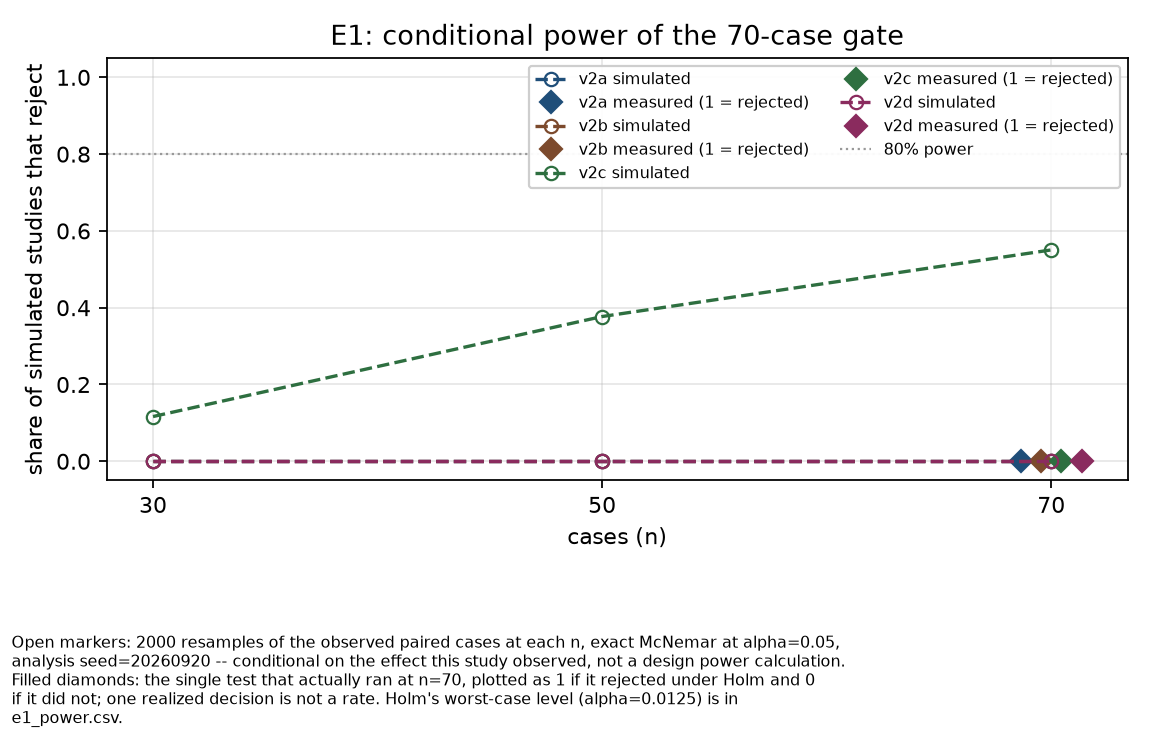
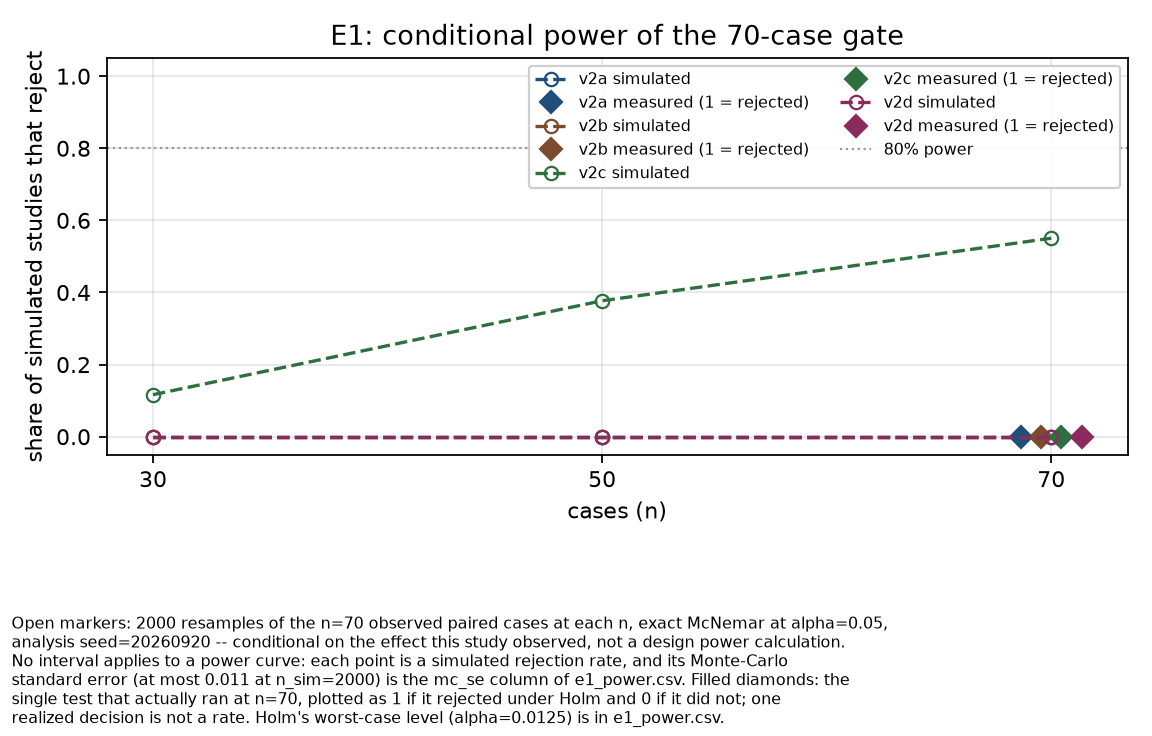
Report the Monte-Carlo error behind every simulated power point
e1_power.csv gains an mc_se column, sqrt(p(1-p)/n_sim), computed in
analyze.py rather than typed into the CSV. B stays at 2,000, so no
pre-registered quantity moves; what changes is that each simulated power
value now carries its own simulation error, at most 0.011 at this B.

The power figure's footnote states the paired-case n it resamples from and
says outright that no interval applies to a power curve, naming mc_se as
where the simulation error lives. experiments/README.md's honesty rule asks
every footnote for n, the interval method and the seed, and this figure had
n_sim, alpha and seed only.

Two numbers in experiments/README.md are also wrong and fixed here: the
$2/$10 Sonnet price belongs to D-010, not D-005 (D-005 is what shipped
$3/$15), and the account stratum's interval width is printed to three
places, because 0.19 reads as exactly the 19 points that the sentence below
the table says nine of ten strata exceed. It is 0.194.

Changed region(s): [[0.0, 0.8438, 0.75, 1.0], [0.125, 0.3125, 0.9688, 0.75], [0.0, 0.0938, 0.0938, 0.6562]]

diff --git a/experiments/analyze.py b/experiments/analyze.py
@@ -694,9 +694,23 @@ def table_e1_leak_sensitivity(pair_sets: dict[tuple[str, str], dict]) -> list[li
 
 
 E1_POWER_HEADER = [
-    "metric", "candidate_version", "n", "alpha", "alpha_basis", "power", "n_sim", "seed",
+    "metric", "candidate_version", "n", "alpha", "alpha_basis", "power", "mc_se", "n_sim", "seed",
     "n_observed_pairs", "observed_b", "observed_c", "mean_b", "mean_c", "method", "note",
 ]
+
+
+def monte_carlo_se(power: float, n_sim: int) -> float:
+    """Standard error of a simulated rejection rate: sqrt(p(1-p)/n_sim).
+
+    Every `power` value in `e1_power.csv` is a proportion of `n_sim` draws, so
+    it carries simulation error of its own. At n_sim = 2000 the worst case is
+    0.011, which is why the power numbers in the write-up are read to two
+    decimal places and not three. Raising n_sim would shrink this; it is not
+    an interval on the effect, only on the simulation.
+    """
+    if n_sim <= 0:
+        return 0.0
+    return math.sqrt(max(power * (1.0 - power), 0.0) / n_sim)
 
 
 def table_e1_power(pair_sets: dict[tuple[str, str], dict], seed: int, n_sim: int = E1_POWER_N_SIM) -> tuple[list[str], list[list]]:
@@ -723,6 +737,7 @@ def table_e1_power(pair_sets: dict[tuple[str, str], dict], seed: int, n_sim: int
         for res in results:
             rows.append([
                 metric, version, res["n"], res["alpha"], basis[res["alpha"]], res["power"],
+                monte_carlo_se(res["power"], res["n_sim"]),
                 res["n_sim"], res["seed"], res["n_observed_pairs"], res["observed_b"], res["observed_c"],
                 res["mean_b"], res["mean_c"], res["method"],
                 "simulated by resampling the observed pairs with replacement; "
@@ -851,12 +866,16 @@ def figure_e1_power(power_rows: list[list], main_rows: list[list], out_path: Pat
     ax.grid(alpha=0.3)
     ax.legend(fontsize=7, ncol=2, framealpha=0.95)
     n_sim = nominal[0][pcol["n_sim"]]
+    n_pairs = nominal[0][pcol["n_observed_pairs"]]
+    worst_se = monte_carlo_se(0.5, n_sim)
     footnote = _wrap(
-        f"Open markers: {n_sim} resamples of the observed paired cases at each n, exact McNemar at "
-        f"alpha=0.05, analysis seed={seed} -- conditional on the effect this study observed, not a "
-        f"design power calculation. Filled diamonds: the single test that actually ran at n=70, plotted "
-        f"as 1 if it rejected under Holm and 0 if it did not; one realized decision is not a rate. "
-        f"Holm's worst-case level (alpha=0.0125) is in e1_power.csv.",
+        f"Open markers: {n_sim} resamples of the n={n_pairs} observed paired cases at each n, exact "
+        f"McNemar at alpha=0.05, analysis seed={seed} -- conditional on the effect this study observed, "
+        f"not a design power calculation. No interval applies to a power curve: each point is a "
+        f"simulated rejection rate, and its Monte-Carlo standard error (at most {worst_se:.3f} at "
+        f"n_sim={n_sim}) is the mc_se column of e1_power.csv. Filled diamonds: the single test that "
+        f"actually ran at n=70, plotted as 1 if it rejected under Holm and 0 if it did not; one "
+        f"realized decision is not a rate. Holm's worst-case level (alpha=0.0125) is in e1_power.csv.",
         width=104,
     )
     fig.text(0.01, 0.01, footnote, fontsize=7, va="bottom")

diff --git a/experiments/README.md b/experiments/README.md
@@ -95,7 +95,7 @@ Environment variables:
 | Name | Where | Note |
 |------|-------|------|
 | `ANTHROPIC_API_KEY` | `.env` at the repo root (gitignored, mode 600) | loaded by `runner.py`; names are logged, values never |
-| `PRICE_CLAUDE_SONNET_5_INPUT=2.00` | export before a run on any checkout that predates D-005 | this branch was cut from a `main` whose `evalkit/cost.py` still had $3/$15; the runner aborts unless the effective price is $2/$10, whichever way it gets there |
+| `PRICE_CLAUDE_SONNET_5_INPUT=2.00` | export before a run on any checkout that predates D-010 | this branch was cut from a `main` whose `evalkit/cost.py` still had $3/$15; the runner aborts unless the effective price is $2/$10, whichever way it gets there |
 | `PRICE_CLAUDE_SONNET_5_OUTPUT=10.00` | same | same |
 | `LLM_CLASSIFIER_MODEL` / `LLM_JUDGE_MODEL` | optional | same contract as production `llm.py` |
 | `EXP_PYTHON` | optional | interpreter for `checks/experiments_acceptance.sh`; unset, it takes `~/.venvs/lrg-exp/bin/python` if that exists, then the repo `.venv`, then `python3` |
@@ -286,7 +286,10 @@ observed effect, a study of this size rejects 55% of the time at alpha 0.05
 and 32% at the 0.0125 Holm charges the first of four tests; at n = 50, 38% and
 17%; at n = 30, 12% and 2%. For the other three versions the observed effect
 is zero, so simulated power is zero at every n -- the resampling cannot invent
-an effect that is not in the pairs.
+an effect that is not in the pairs. Each of those percentages is a proportion
+of B = 2,000 resamples and carries simulation error of its own: sqrt(p(1-p)/B)
+is at most 0.011 at this B, so power is read to two decimal places and no
+further. The per-row value is the `mc_se` column of `e1_power.csv`.
 
 The blunt version of the same arithmetic: with no cases flipping the other
 way, an exact McNemar test at n = 70 needs 6 discordant pairs to clear a
@@ -331,7 +334,7 @@ The baseline arm, 64/70 overall, by stratum
 | category billing | 19 | 18 | 0.947 | 0.754-0.991 | 0.24 | 1.000 | 1.000 |
 | category technical | 18 | 17 | 0.944 | 0.742-0.990 | 0.25 | 1.000 | 1.000 |
 | category general | 17 | 13 | 0.765 | 0.527-0.904 | 0.38 | 0.028 | 0.092 |
-| category account | 16 | 16 | 1.000 | 0.806-1.000 | 0.19 | 0.325 | 0.812 |
+| category account | 16 | 16 | 1.000 | 0.806-1.000 | 0.194 | 0.325 | 0.812 |
 
 One stratum survives BH: `edge`, 4 of 8, against 60 of 62 everywhere else.
 `general` and `easy` move at a nominal 0.05 and not after correction.
@@ -344,7 +347,10 @@ case-070, a consecutive block written in one sitting to fill the 10%
 bilingual quota rather than seven draws spread across the dataset, which is
 derived from the case ids at analysis time and printed in the table's `note`
 column. The same holds, less dramatically, everywhere below n = 20: nine of
-the ten strata have an interval wider than 19 points.
+the ten strata have an interval wider than 19 points -- `account` at 0.194,
+printed to three places above because it is the one that rounds onto the
+threshold, is the narrowest of the nine, and `easy` at 0.112 is the only
+stratum below it.
 
 `e5_logit.csv` carries `pass ~ language + difficulty + category` with
 standard errors clustered on case. **The pre-specified fit -- baseline arm
